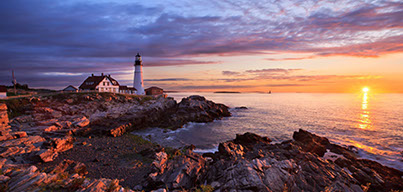
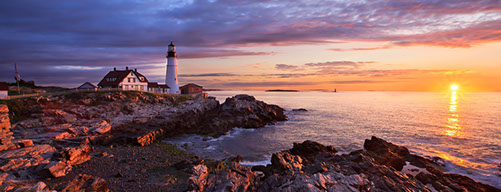
this

diff --git a/phone/index.html b/phone/index.html
@@ -13,7 +13,7 @@
   <link rel="canonical" href="http://www.merhivaluationgroup.com/index.html"/>
   <!-- CSS -->
   <link rel="stylesheet" type="text/css" href="../css/site_global.css?426707417"/>
-  <link rel="stylesheet" type="text/css" href="css/index.css?507361625" id="pagesheet"/>
+  <link rel="stylesheet" type="text/css" href="css/index.css?3966496808" id="pagesheet"/>
   <!-- Other scripts -->
   <script type="text/javascript">
    document.documentElement.className += ' js';
@@ -28,14 +28,16 @@
       <div class="SlideShowContentPanel clearfix" id="u1131"><!-- stack box -->
        <div class="SSSlide clip_frame clearfix grpelem" id="u1136"><!-- image -->
         <div id="u1136_clip">
-         <img class="ImageInclude position_content" id="u1136_img" data-src="../images/portland_pic438x192.jpg" src="../images/blank.gif" alt="" data-width="437" data-height="192"/>
+         <img class="ImageInclude position_content" id="u1136_img" data-src="../images/portland_pic501x221.jpg" src="../images/blank.gif" alt="" data-width="501" data-height="220"/>
         </div>
        </div>
        <div class="SSSlide invi clip_frame grpelem" id="u1172"><!-- image -->
-        <img class="block ImageInclude" id="u1172_img" data-src="../images/portland-rock-lighthouse-sea-sun-dawn-crop-u1172.jpg" src="../images/blank.gif" alt="" data-width="403" data-height="192"/>
+        <img class="block ImageInclude" id="u1172_img" data-src="../images/portland-rock-lighthouse-sea-sun-dawn-crop-u1172.jpg" src="../images/blank.gif" alt="" data-width="501" data-height="192"/>
        </div>
-       <div class="SSSlide invi clip_frame grpelem" id="u1184"><!-- image -->
-        <img class="block ImageInclude" id="u1184_img" data-src="../images/portland_panorama3-crop-u1184.jpg" src="../images/blank.gif" alt="" data-width="403" data-height="192"/>
+       <div class="SSSlide invi clip_frame clearfix grpelem" id="u1184"><!-- image -->
+        <div id="u1184_clip">
+         <img class="ImageInclude position_content" id="u1184_img" data-src="../images/portland_panorama3523x192.jpg" src="../images/blank.gif" alt="" data-width="522" data-height="192"/>
+        </div>
        </div>
       </div>
      </div>

diff --git a/phone/css/index.css b/phone/css/index.css
@@ -1,7 +1,7 @@
 .version.index /* version checker */
 {
-	color: #00001E;
-	background-color: #3DB959;
+	color: #0000EC;
+	background-color: #6BF028;
 }
 
 @-ms-viewport
@@ -61,7 +61,7 @@
 #u1131
 {
 	position: absolute;
-	width: 403px;
+	width: 501px;
 	height: 192px;
 	background-color: transparent;
 }
@@ -74,7 +74,7 @@
 #u1136
 {
 	z-index: 6;
-	width: 403px;
+	width: 501px;
 	height: 192px;
 	border-style: none;
 	border-color: transparent;
@@ -83,23 +83,16 @@
 	position: relative;
 }
 
-#u1136_clip
-{
-	overflow: hidden;
-	width: 403px;
-	height: 192px;
-}
-
 #u1136_img
 {
-	margin-left: -17px;
-	margin-right: -17px;
+	margin-top: -14px;
+	margin-bottom: -14px;
 }
 
 #u1172
 {
 	z-index: 8;
-	width: 403px;
+	width: 501px;
 	height: 192px;
 	border-style: none;
 	border-color: transparent;
@@ -111,13 +104,26 @@
 #u1184
 {
 	z-index: 10;
-	width: 403px;
+	width: 501px;
 	height: 192px;
 	border-style: none;
 	border-color: transparent;
 	background-color: transparent;
 	margin-right: -10000px;
 	position: relative;
+}
+
+#u1136_clip,#u1184_clip
+{
+	overflow: hidden;
+	width: 501px;
+	height: 192px;
+}
+
+#u1184_img
+{
+	margin-left: -11px;
+	margin-right: -10px;
 }
 
 .SSFirstButton,.SSPreviousButton,.SSNextButton,.SSLastButton,.SSSlideLink,.SSCloseButton /* slideshowFreeStyle */
@@ -298,7 +304,7 @@
 #u1107
 {
 	z-index: 3;
-	width: 402px;
+	width: 500px;
 	border-width: 1px;
 	border-style: solid;
 	border-color: #000000;
@@ -527,7 +533,7 @@
 #u1194
 {
 	z-index: 2;
-	width: 402px;
+	width: 500px;
 	border-width: 1px;
 	border-style: solid;
 	border-color: #000000;
